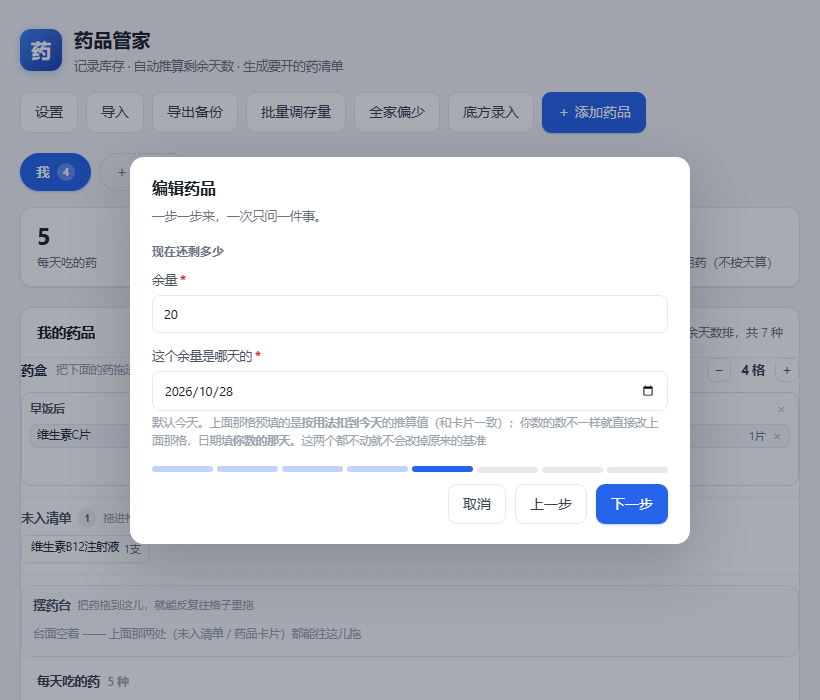
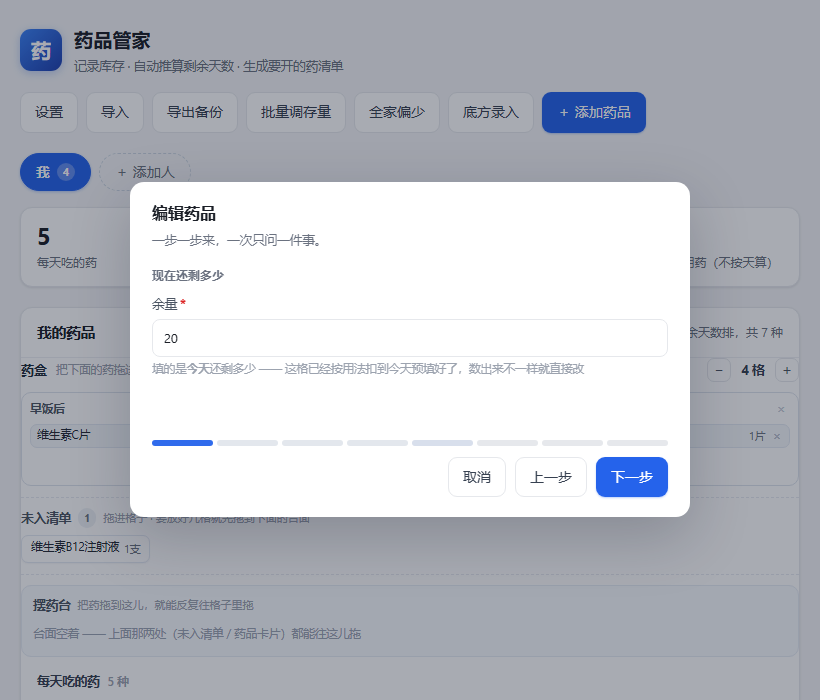
添加药品去掉「这个余量是哪天的」：基准日改由程序定
用户 2026-10-28：「添加药品里 这个余量是哪天的 这个给去掉 用不着显示这个」。

- 表单里删掉 stockDate 那一格（不再 required、不再进校验、不再进必填图例），
  「还剩多少」那一步只剩一个数字格。
- 基准日改由程序定：
  · 新增 → 今天（填进来的数就是今天数出来的）；
  · 编辑 → 这一格**没被动过**就把原来的基准（量 + 那天）原样写回，动了才按今天重记。
  ⚠ 后半条是必须的：这格预填的是「按用法扣到今天」的推算值，直接存会把基准日滚到今天，
  不满一天的零头被抹掉、隔天/隔周用药的相位整体平移（30 片 10 天前数的、每天 1 片，
  一保存就凭空多出 10 片）。回归断言钉住了两个方向。
- 提示改成「填的是今天还剩多少 —— 这格已经按用法扣到今天预填好了，数出来不一样就直接改」，
  把原来「日期填你数的那天」那半句的解释挪到这一句里。
- 自测：test_rxcap 335（8 格必填 → 7 格，并钉住 stockDate 不许长回来）；
  test_wiz 74（新增「表单里没这格」「弹窗里没这些字」「没动余量→基准不变」「改了余量→基准是今天」）；
  test_prn / test_ins 里给这格赋值的几行一并删掉。十套合计 1067 全绿。
  README 的表格与必填口径跟着改，docs/ 重拍（edit），APK 重打。

Changed region(s): [[0.1524, 0.21, 0.8537, 0.78]]

diff --git a/index.html b/index.html
@@ -1028,15 +1028,14 @@ input.wbad{border-color:#fca5a5;background:#fffafa}
           </div>
         </section>
 
+        <!-- 2026-10-28 用户要求：「添加药品里 这个余量是哪天的 这个给去掉 用不着显示这个」。
+             基准日不再让人填 —— 你数出来的数就是今天的，日期由程序自己定：
+             新的药 = 今天；编辑时没动这一格 = 原来的基准日原样留着（见 submitMed）。 -->
         <section class="wstep" data-wstep="stock" data-name="余量">
           <div class="sec-title">现在还剩多少</div>
           <label class="full"><span class="lb">余量<b class="req">*</b></span>
             <input name="stockBase" type="number" step="0.25" min="0" value="0" required data-wlabel="余量">
-          </label>
-          <label class="full"><span class="lb">这个余量是哪天的<b class="req">*</b></span>
-            <input name="stockDate" type="date" required data-wlabel="余量日期">
-            <span class="hintline" id="stockHint">默认今天。上面那格预填的是<b>按用法扣到今天</b>的推算值（和卡片一致）；
-              你数的数不一样就直接改上面那格，日期填<b>你数的那天</b>。这两个都不动就不会改掉原来的基准</span>
+            <span class="hintline" id="stockHint">填的是<b>今天</b>还剩多少</span>
           </label>
         </section>
 
@@ -3016,11 +3015,9 @@ function openEditor(id){
     editAnchor = {
       base: m.stockBase != null ? m.stockBase : 0,
       date: m.stockDate || todayStr(),
-      pre: String(preQty),
-      preDate: todayStr()
+      pre: String(preQty)
     };
     f.stockBase.value = preQty;
-    f.stockDate.value = todayStr();
     // 「一次最多能开几天」现在是必填，所以老存档里 rxMax=0（旧的「不限」）要留空让人补填，
     // 并换一句 placeholder 说明为什么这格是空的 —— 不然看着像 bug。
     // 备用药用不上这一格（它不按天数补货），留着空即可。
@@ -3045,7 +3042,6 @@ function openEditor(id){
     f.cycleDays.value = 1;
     f.timesPerCycle.value = 1;
     f.stockBase.value = 0;
-    f.stockDate.value = todayStr();
     f.rxMax.value = '';
     f.rxMax.placeholder = '如 30';
     f.ins.value = 'self';
@@ -3080,15 +3076,14 @@ function syncKindUI(){
     ? '备用药只记<b>一次吃多少</b>和还剩多少，<b>不按天数推算</b>'
     : '单位可填 片 / 粒 / ml / 支 / 袋 —— <b>这一行四格都是必填</b>';
   $('#reqLegend').innerHTML = prn
-    ? '<b class="req">*</b> 为必填；备用药只要<b>名称</b>、<b>单位</b>、<b>余量</b>、<b>余量日期</b>'
+    ? '<b class="req">*</b> 为必填；备用药只要<b>名称</b>、<b>单位</b>、<b>余量</b>'
     : '<b class="req">*</b> 为必填；只有<b>规格</b>、<b>备注</b>两格可以留空。';
-  // 余量日期下面那句解释必须跟着类型换：备用药不按天数扣，还写「按用法扣到今天的推算值」
-  // 会让人以为程序在倒计时，也会让人以为这格填错了。
+  // 日期不再让人填了，这句只要说清「这格问的是今天还剩多少」。
+  // 编辑时这格是**按用法扣到今天**预填好的 —— 不点破的话，看见 13 片会以为自己填错了；
+  // 备用药那句要跟着类型换：它不按天数扣，别说「往下扣」，会让人以为在倒计时。
   $('#stockHint').innerHTML = prn
-    ? '默认今天。备用药<b>不按天数扣</b>，这格只记「上面那个数是哪天数的」；'
-      + '数字和日期都不动就不会改掉原来的基准'
-    : '默认今天。上面那格预填的是<b>按用法扣到今天</b>的推算值（和卡片一致）；'
-      + '你数的数不一样就直接改上面那格，日期填<b>你数的那天</b>。这两个都不动就不会改掉原来的基准';
+    ? '填的是<b>今天</b>还剩多少。备用药<b>不按天数扣</b>，这只是个数字'
+    : '填的是<b>今天</b>还剩多少 —— 这格已经按用法扣到今天预填好了，数出来不一样就直接改';
 
   // 必填开关：两套校验（HTML required + submitMed 里的 JS）都要跟着切，
   // 否则备用药会被那几格空的「每几天」卡住保存不了。
@@ -3216,13 +3211,12 @@ async function submitMed(e){
   }
   // 余量可以填 0（刚好吃完），但不能空着
   if((f.stockBase.value || '').trim() === '' || !(stockBase >= 0)) miss.push('余量（填 0 可以，但不能空）');
-  if(!f.stockDate.value) miss.push('余量日期');
   if(!prn && !(rxMax > 0)) miss.push('一次最多能开几天（要大于 0）');
   if(miss.length){
     await askAlert({
       title: '还有几项没填',
       sub: '· ' + miss.join('\n· ') + '\n\n（' + (prn
-        ? '备用药只要 名称 / 单位 / 余量 / 余量日期，规格和备注选填'
+        ? '备用药只要 名称 / 单位 / 余量，规格和备注选填'
         : '只有「规格」和「备注」可以留空') + '）'
     });
     return;
@@ -3238,7 +3232,9 @@ async function submitMed(e){
     cycleDays: prn ? 1 : Math.max(1, Math.round(cycleDays) || 1),
     timesPerCycle: prn ? 0 : timesPerCycle,
     stockBase: Math.max(0, stockBase),
-    stockDate: f.stockDate.value || todayStr(),
+    // 基准日不让人填了：填进来的余量就是「今天数出来的」，所以基准日就是今天。
+    // 编辑时若这一格没被动过，下面会连基准日一起换回原来那天的（见下面的 editAnchor 分支）。
+    stockDate: todayStr(),
     // ★ rxMax 存的是**天数**，rxMaxDay 这个标记就是「它是天数」的凭证。
     //   老存档没有这个标记 → 读的时候按老口径（数量）用，不动它。
     rxMax: prn ? 0 : rxMax,
@@ -3261,13 +3257,12 @@ async function submitMed(e){
       //   备用药 → 每天吃：照旧基准写回，会拿一个"很久以前数的数"重新按天扣，直接扣成 0。
       //   两条方向都不是用户要的 —— 换口径时，**屏幕上那个数就是新的起点**。
       const kindChanged = kindOf(meds[i]) !== kind;
-      // ★ 「余量 / 日期」两格没被动过 → 把**原来的基准**原样写回。
-      //   为什么必须这样：那两格预填的是「扣到今天」的推算值，直接存下去会顺带把基准日滚到今天，
+      // ★ 「余量」那一格没被动过 → 把**原来的基准**原样写回。
+      //   为什么必须这样：那格预填的是「扣到今天」的推算值，直接存下来会顺带把基准日滚到今天，
       //   不满一天的零头会被抹掉，间隔用药的相位（每 14 天一次该从哪天算）也会整体平移。
-      //   只在「你确实改了余量或日期」时才按你填的存。
+      //   只在「你确实改了余量」时才按你填的存（那也正说明你今天数过数了）。
       if(!kindChanged && editAnchor
-         && Math.abs(num(f.stockBase.value) - num(editAnchor.pre)) < 1e-9
-         && (f.stockDate.value || todayStr()) === editAnchor.preDate){
+         && Math.abs(num(f.stockBase.value) - num(editAnchor.pre)) < 1e-9){
         next.stockBase = editAnchor.base;
         next.stockDate = editAnchor.date;
       }

diff --git a/_check/test_wiz.py b/_check/test_wiz.py
@@ -155,7 +155,6 @@ PROBE = r"""
 
   /* ================= 5. 一路走到最后一步，存下来的东西要对 ================= */
   f.stockBase.value = '20';
-  f.stockDate.value = todayStr2();
   tapNext('formMed');
   ck('走到「开药限制」', stepOf('formMed') === 'limit', stepOf('formMed'));
   f.rxMax.value = '30';
@@ -207,12 +206,49 @@ PROBE = r"""
   ck('上次留下的红字没有跟进来', errTxt('formMed') === '(没有红字)', errTxt('formMed'));
   q('#dlgMed').close();
 
+  /* ========== 7.5 「余量是哪天的」不再让人填（2026-10-28 用户要求） ========== */
+  function agoD(n){ var d = new Date(); d.setDate(d.getDate() - n); return fmtDate(d); }
+  ck('★ 表单里没有「余量是哪天的」那一格了',
+     qa('#formMed input[name=stockDate]').length === 0
+       && qa('#formMed .wstep[data-wstep=stock] input').length === 1,
+     qa('#formMed input[name=stockDate]').length + ' 格');
+  ck('★ 整个弹窗里也不再出现「余量日期」「哪天的」这些字',
+     txt(q('#formMed')).indexOf('余量日期') < 0 && txt(q('#formMed')).indexOf('哪天的') < 0,
+     txt(q('#formMed')).slice(0, 40));
+  ck('「还剩多少」那一步只剩一个输入框，进度条照样 8 段',
+     dots('formMed').length === 8, bar('formMed'));
+
+  // 造一味「10 天前数了 30 片、每天 1 片」的老药 —— 今天推算出来是 20 片
+  var oldMed = { id: 'wizold', kind: 'daily', name: '旧基准片', spec: '', perDose: 1, unit: '片',
+                 cycleDays: 1, timesPerCycle: 1, stockBase: 30, stockDate: agoD(10),
+                 rxMax: 30, rxMaxDay: 1, note: '' };
+  meds.push(oldMed);
+  openEditor(oldMed.id);
+  ck('编辑老药时，预填的仍然是「扣到今天」的数（不是 30）',
+     num(f.stockBase.value) === 20, f.stockBase.value);
+  f.spec.value = '3mg';                        // 只改别的项，一概不碰余量
+  await submitMed({ preventDefault: function(){} });
+  var a1 = byName('旧基准片');
+  ck('★ 没动余量 → 原来的基准（30 片 / 10 天前）原样留着，不因为点了保存就滚到今天',
+     a1.stockBase === 30 && a1.stockDate === agoD(10), a1.stockBase + ' / ' + a1.stockDate);
+  ck('顺手改的规格确实存进去了', a1.spec === '3mg', a1.spec);
+
+  openEditor(oldMed.id);
+  f.stockBase.value = '15';                    // 今天真数了一遍：15 片
+  await submitMed({ preventDefault: function(){} });
+  var a2 = byName('旧基准片');
+  ck('★ 改了余量 → 按「今天数出来的」存，基准日就是今天（不用再问是哪天）',
+     a2.stockBase === 15 && a2.stockDate === todayStr2(), a2.stockBase + ' / ' + a2.stockDate);
+  ck('改完这个基准，卡片上的天数也跟着变',
+     Math.abs(daysLeft(a2) - 15) < 1e-9, daysLeft(a2));
+  q('#dlgMed').close();
+
   /* ================= 8. 又买了药：先问数量，再问来路 ================= */
   openEditor(null);
   f.name.value = '补货引导片';
   f.kind.value = 'daily'; syncKindUI();
   f.perDose.value = 1; f.unit.value = '片'; f.cycleDays.value = 1; f.timesPerCycle.value = 1;
-  f.stockBase.value = 4; f.stockDate.value = todayStr2();
+  f.stockBase.value = 4;
   f.rxMax.value = 30; f.ins.value = 'self'; f.note.value = '';
   await submitMed({ preventDefault: function(){} });
   var rest = byName('补货引导片');
@@ -276,12 +312,12 @@ PROBE = r"""
 
   /* ================= 11. 字段一个没少、name 一个没改 ================= */
   var wantInputs = ['name', 'spec', 'perDose', 'unit', 'cycleDays', 'timesPerCycle',
-                    'stockBase', 'stockDate', 'rxMax', 'miStart', 'note'];
+                    'stockBase', 'rxMax', 'miStart', 'note'];
   var missIn = wantInputs.filter(function(n){
     return qa('#formMed input[name="' + n + '"]').length !== 1;
   });
-  ck('★ 添加药品那 11 个输入框一个没少、也没重复（引导式没造第二套字段）',
-     missIn.length === 0, missIn.join(',') || '11/11');
+  ck('★ 添加药品那 10 个输入框一个没少、也没重复（引导式没造第二套字段）',
+     missIn.length === 0, missIn.join(',') || '10/10');
   ck('单选组 kind / ins 也各只有一组',
      qa('#formMed input[name=kind]').length === 2 && qa('#formMed input[name=ins]').length === 2,
      qa('#formMed input[name=kind]').length + ' / ' + qa('#formMed input[name=ins]').length);

diff --git a/_check/test_rxcap.py b/_check/test_rxcap.py
@@ -577,7 +577,6 @@ PROBE = r"""
   fmed.cycleDays.value = 1;
   fmed.timesPerCycle.value = 1;
   fmed.stockBase.value = 0;
-  fmed.stockDate.value = todayStr();
   fmed.rxMax.value = '';                       // 唯一会空着的必填格
 
   var al0 = R.alerts.length;
@@ -1408,14 +1407,22 @@ def main():
         return m.group(1) if m else None
 
     want_req = ["name", "perDose", "unit", "cycleDays", "timesPerCycle",
-                "stockBase", "stockDate", "rxMax"]
+                "stockBase", "rxMax"]
     want_opt = ["spec", "note"]
     bad_req = [k for k in want_req if not (_attrs(k) and "required" in _attrs(k))]
     bad_opt = [k for k in want_opt if _attrs(k) is None or "required" in _attrs(k)]
     data["cases"].append({
-        "name": "「添加药品」8 格必填都带 required（药名/每次/单位/每几天/几次/余量/日期/开药上限）",
+        "name": "「添加药品」7 格必填都带 required（药名/每次/单位/每几天/几次/余量/开药上限）",
         "pass": bool(fbody) and not bad_req,
-        "got": "、".join(bad_req) if bad_req else "8/8",
+        "got": "、".join(bad_req) if bad_req else "7/7",
+    })
+    # 防回潮：2026-10-28 用户要求去掉「这个余量是哪天的」——基准日改由程序定，别再长回来。
+    # ⚠ 只查字段名，别查「是哪天的」这几个字：用户原话留在 form 里的注释里，
+    #    textContent 看不见注释，那边（test_wiz）已经钉了「界面上不许出现」。
+    data["cases"].append({
+        "name": "「余量是哪天的」那一格已删（基准日不再让人填）",
+        "pass": "stockDate" not in fbody,
+        "got": "还在" if "stockDate" in fbody else "已删",
     })
     data["cases"].append({
         "name": "「规格」「备注」两格没有 required（选填）",

diff --git a/_check/test_prn.py b/_check/test_prn.py
@@ -271,7 +271,6 @@ PROBE = r"""
   fmed.cycleDays.value = '';          // ★ 故意空着：每天吃的这时会被拦
   fmed.timesPerCycle.value = '';      // ★ 同上
   fmed.stockBase.value = 12;
-  fmed.stockDate.value = todayStr();
   fmed.rxMax.value = '';              // 备用药用不上这格
   ck('备用药表单在「每几天 / 几次 / 开药上限」都空着时仍然合法（浏览器那一关）',
      q('#formMed').checkValidity() === true, q('#formMed').checkValidity());
@@ -299,7 +298,6 @@ PROBE = r"""
   fmed.name.value = '';
   fmed.unit.value = '片';
   fmed.stockBase.value = 1;
-  fmed.stockDate.value = todayStr();
   var n2 = meds.length, al1 = R.alerts.length;
   submitMed({ preventDefault: function(){} });
   ck('备用药名称空着 → 被拦下', meds.length === n2, meds.length - n2);
@@ -317,7 +315,6 @@ PROBE = r"""
   fmed.cycleDays.value = 1;
   fmed.timesPerCycle.value = 1;
   fmed.stockBase.value = 1;
-  fmed.stockDate.value = todayStr();
   fmed.rxMax.value = '';
   var n3 = meds.length, al2 = R.alerts.length;
   submitMed({ preventDefault: function(){} });

diff --git a/_check/shot.py b/_check/shot.py
@@ -198,7 +198,8 @@ HOOKS = {
            " sub:'没有偏少的药，都还够吃。等哪味低于「提醒天数」时再来。' });",
     # ★ 「备用药」的编辑弹窗（2026-10-22 新增）—— 和上面那张对照着看，最省口舌：
     #   同一张表单，选了备用药之后「每几天 / 几次」和「开药限制」整块收起，
-    #   只剩「一次吃多少 / 单位 / 余量 / 余量日期」。拍下来是为了钉住"备用药不用填那些"。
+    #   只剩「一次吃多少 / 单位 / 余量」（2026-10-28 起余量的日期那格也删了）。
+    #   拍下来是为了钉住"备用药不用填那些"。
     #   挑 meds[5] = 布洛芬缓释胶囊（演示数据里第 6 位、kind=prn）。
     # ★ 2026-10-28：引导式之后要拍的是「用的时候怎么吃」那一步 ——
     #   「每几天 / 几次」在这一步里是真没了（不是灰着），跟上面那张每天吃的对看最省口舌

diff --git a/_check/test_ins.py b/_check/test_ins.py
@@ -104,7 +104,7 @@ PROBE = r"""
     f.cycleDays.value = 1;
     f.timesPerCycle.value = o.times || 1;
     f.stockBase.value = (o.stock == null ? 30 : o.stock);
-    f.stockDate.value = todayStr();
+    // 2026-10-28 起「余量是哪天的」不再让人填，表单里没有这一格了（基准日 = 今天）
     f.rxMax.value = 30;
     f.ins.value = o.ins || 'self';
     if(o.miStart) f.miStart.value = o.miStart;
